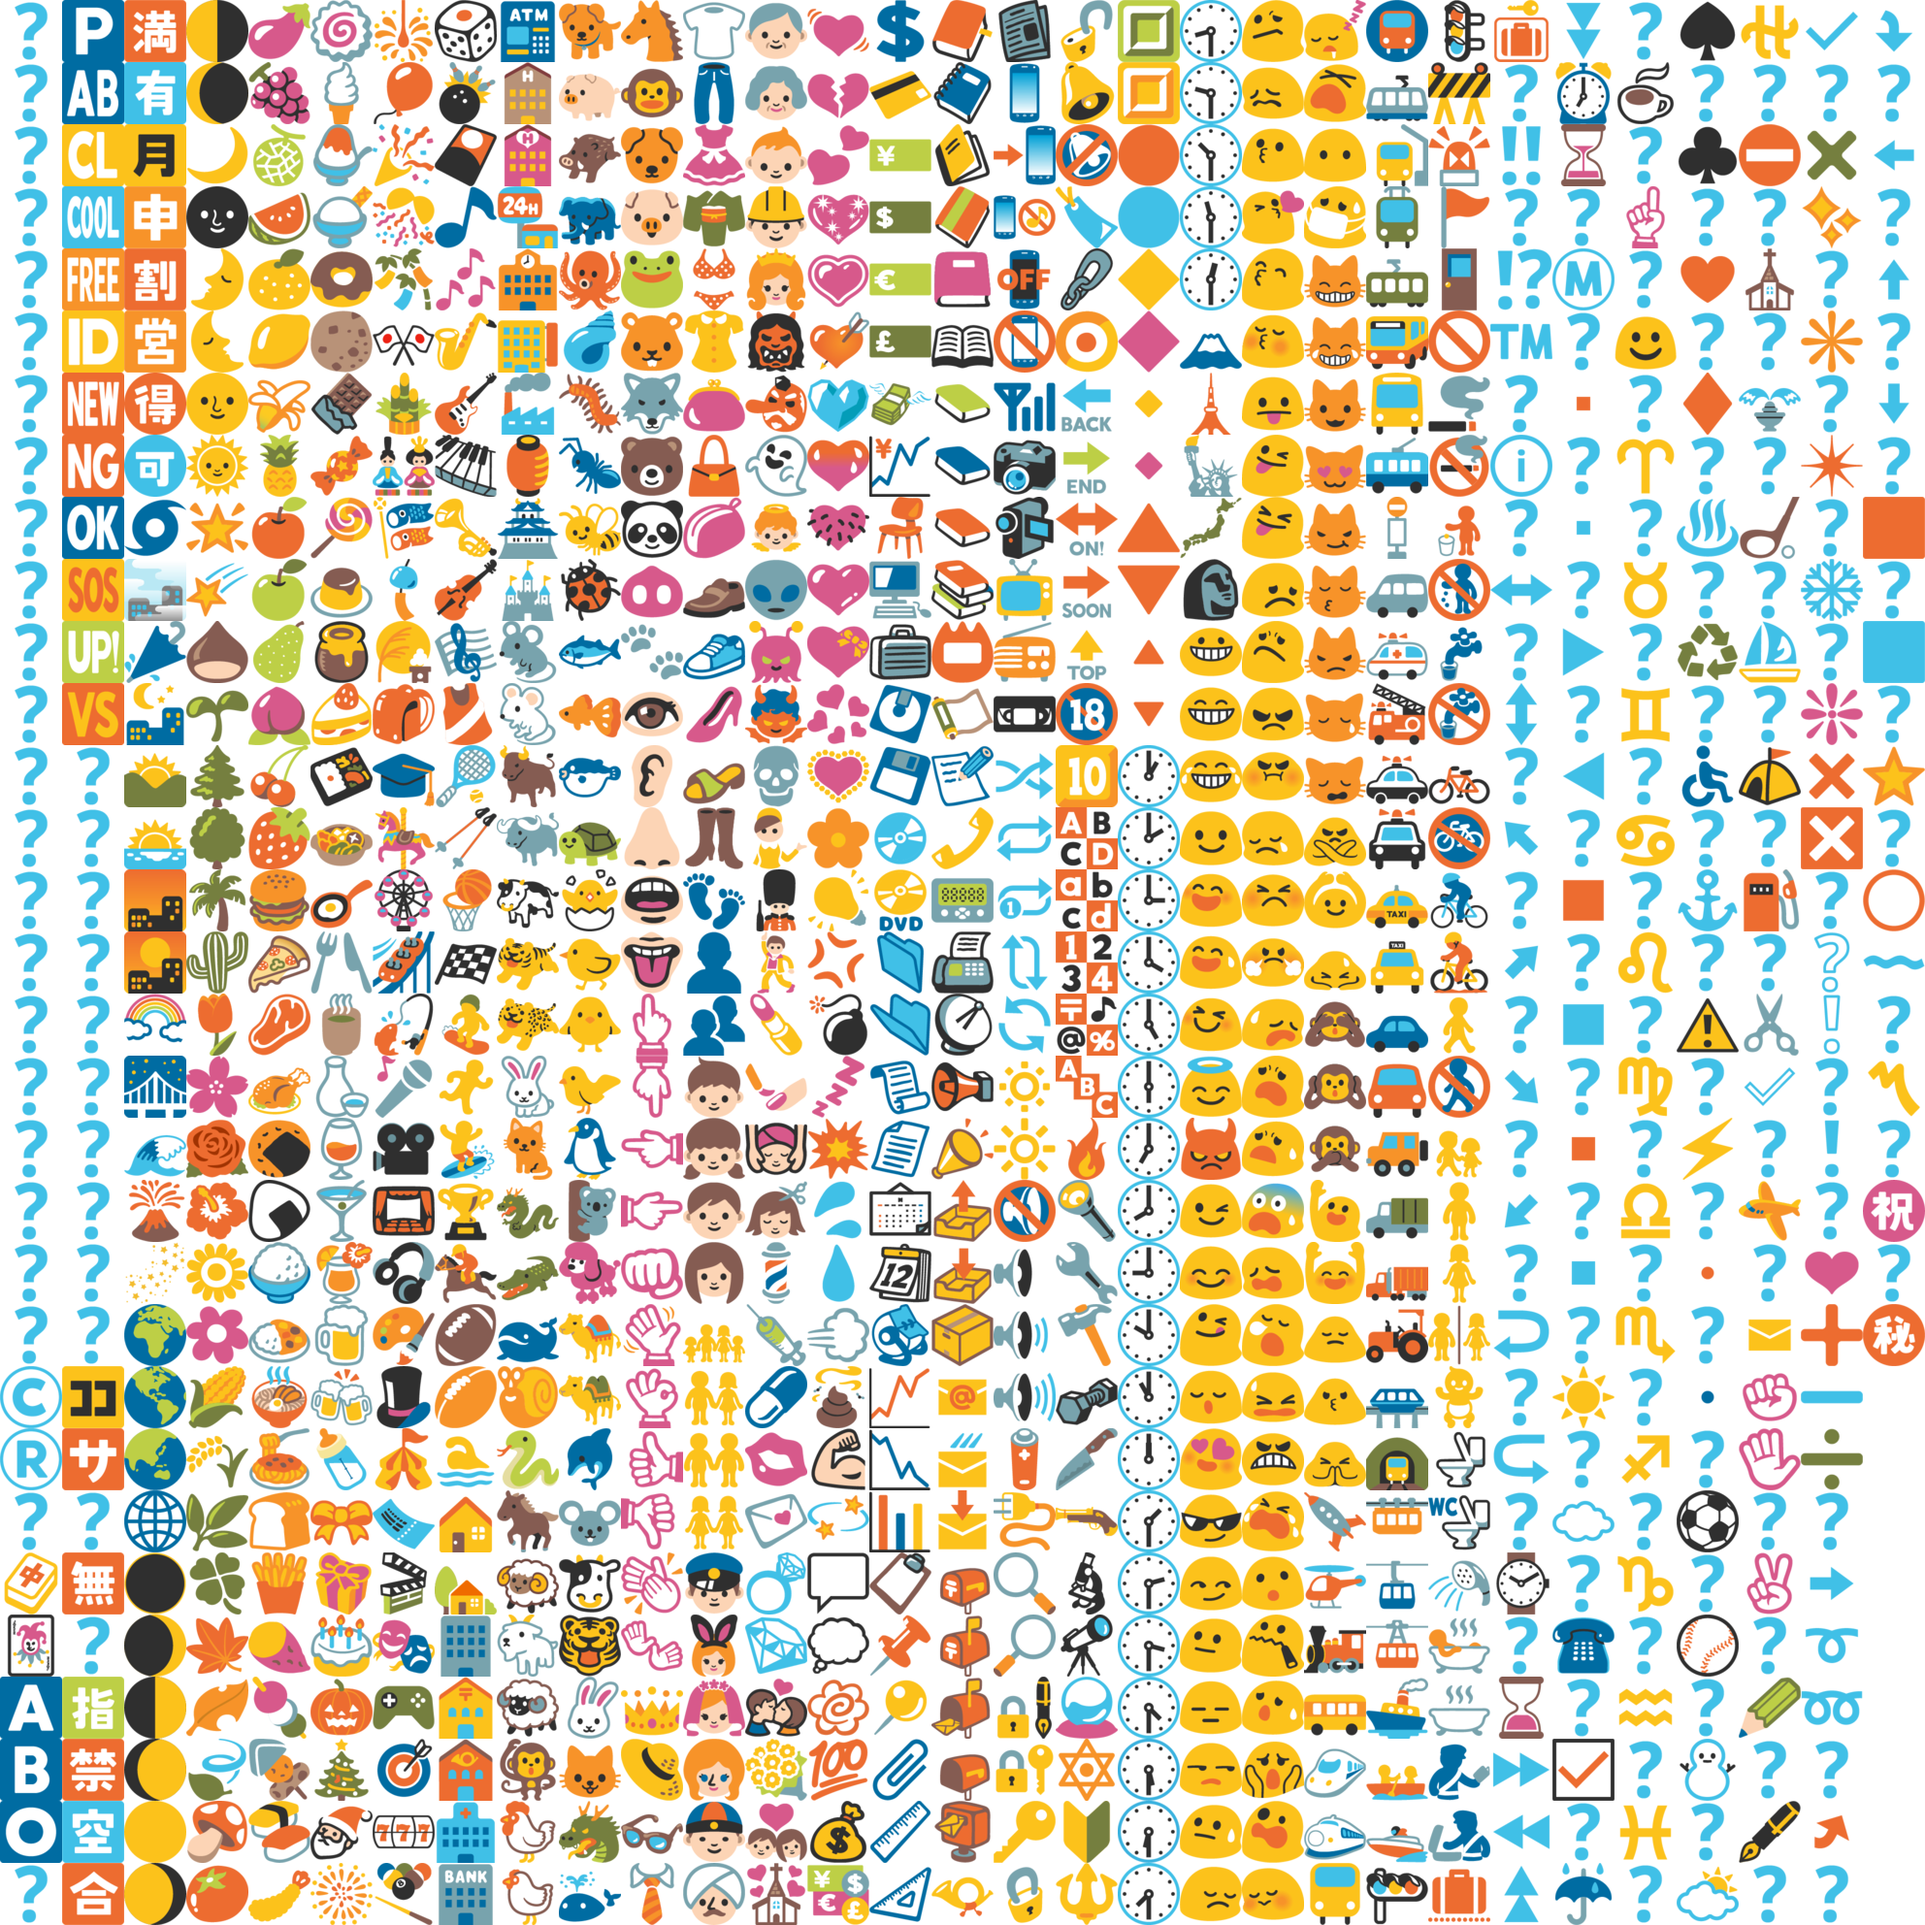
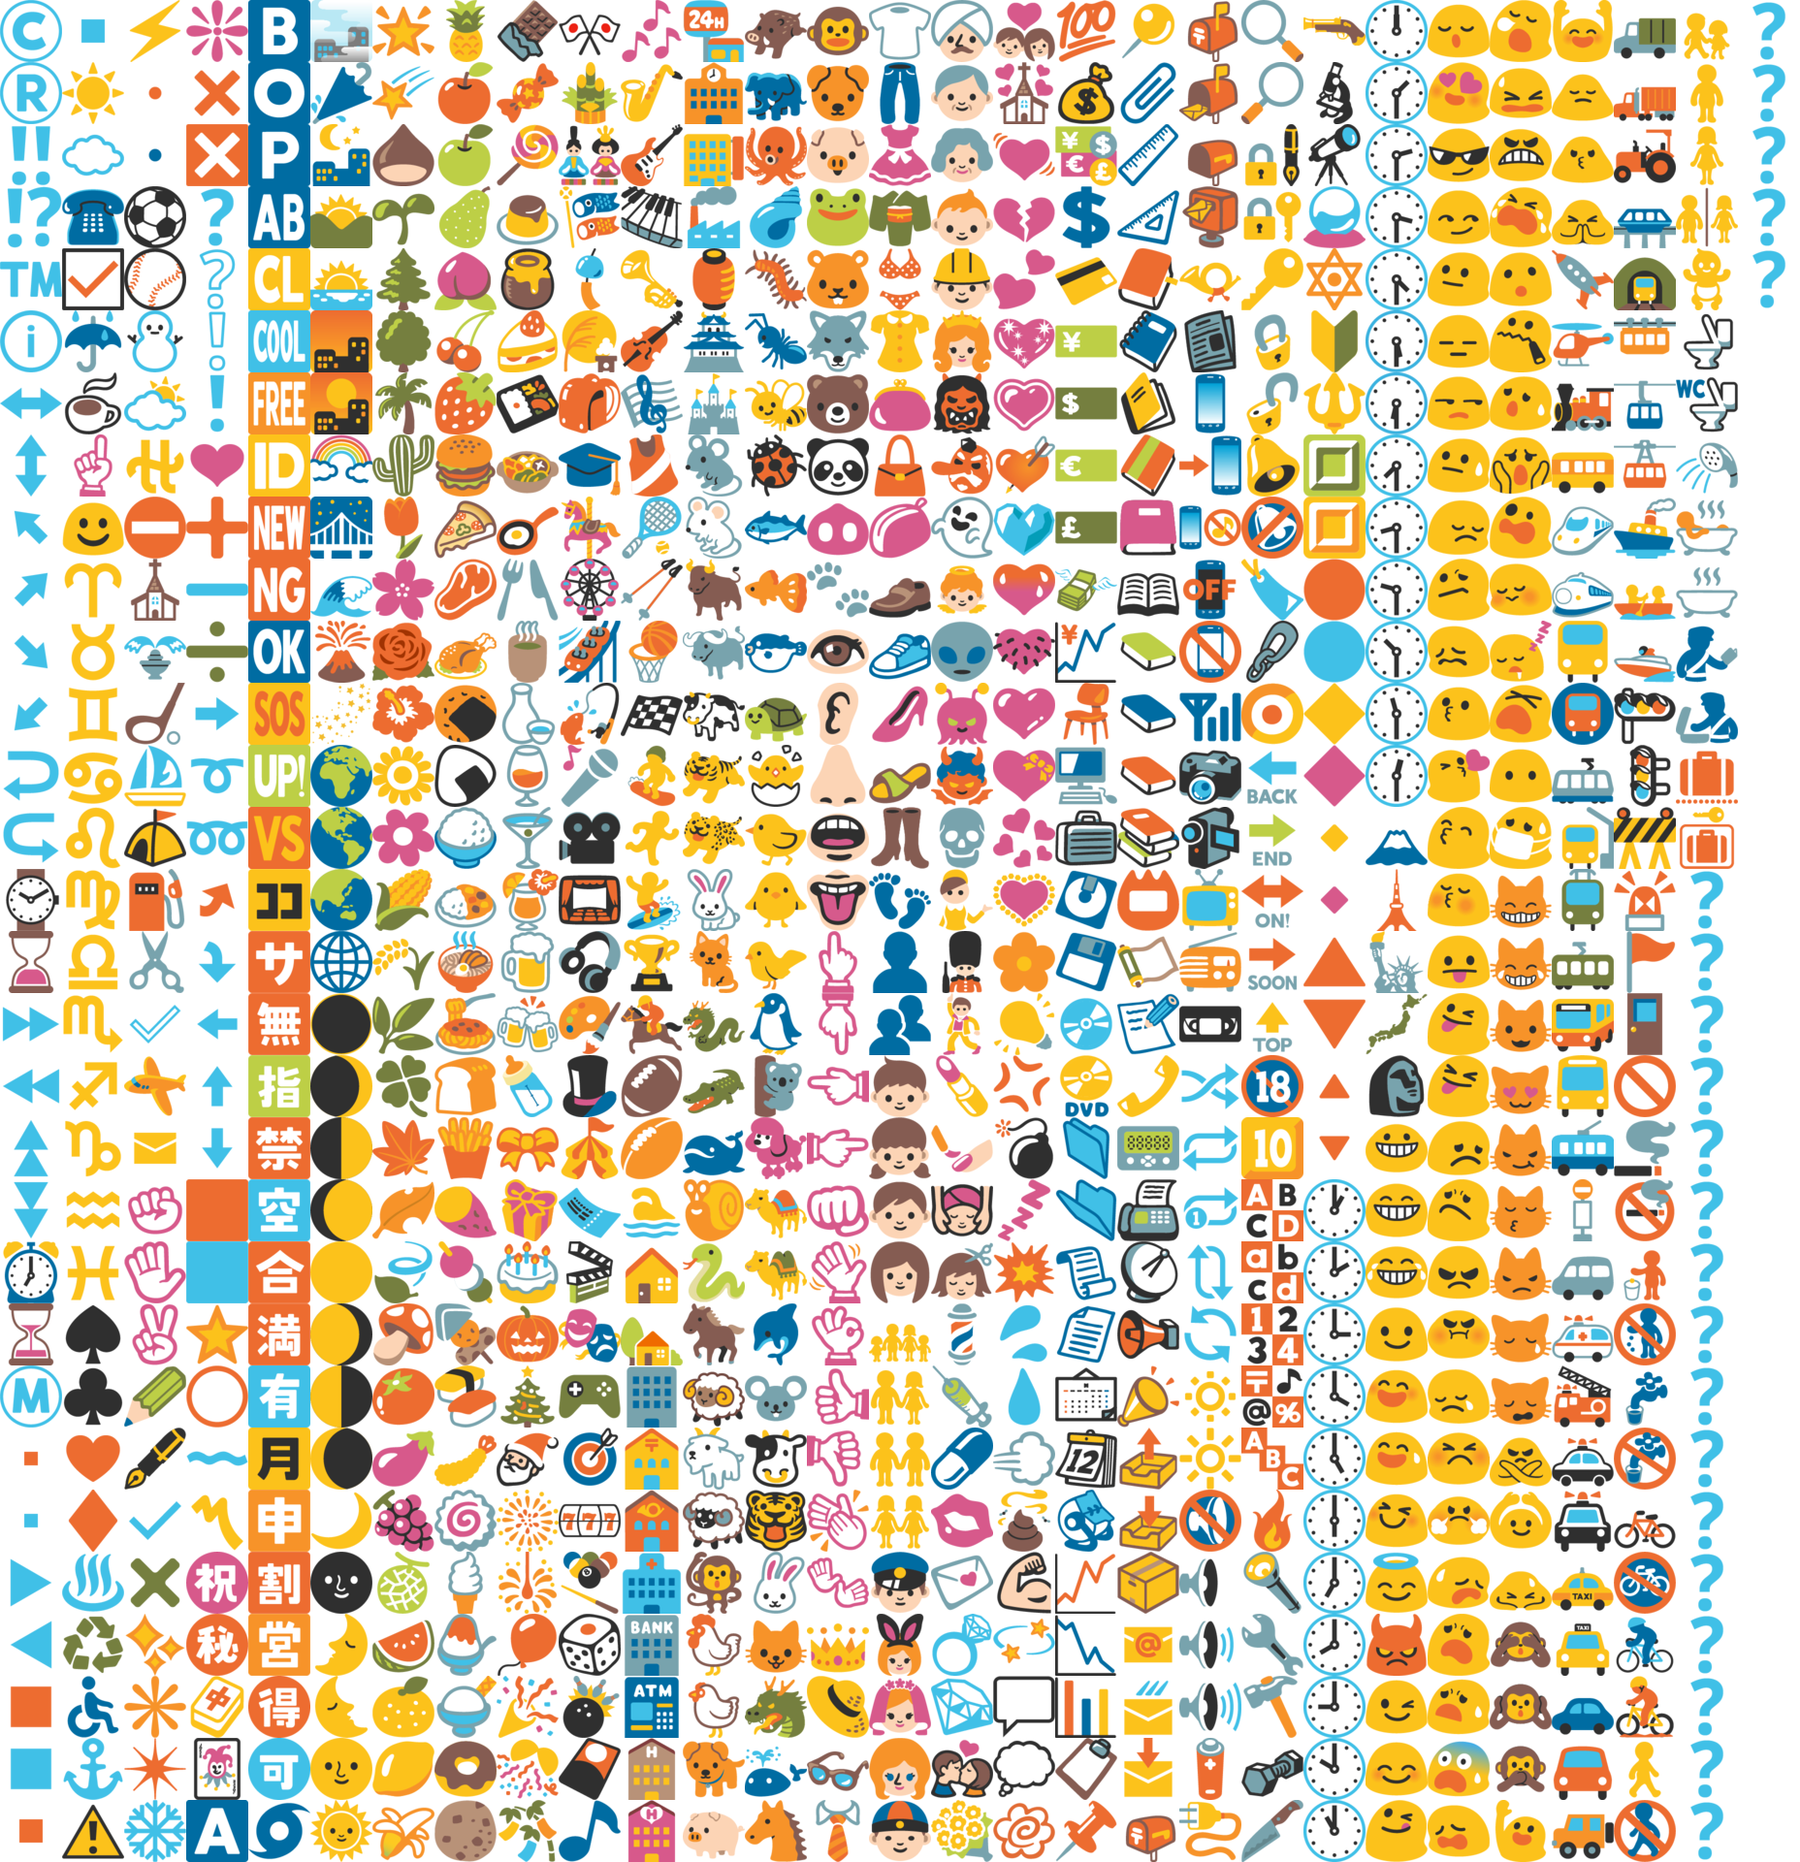
rebuilt all sheets

diff --git a/build/build_sheets.php b/build/build_sheets.php
@@ -1,14 +1,14 @@
 <?php
 	$dir = dirname(__FILE__).'/..';
 
-	#build_sheet(64, null, 32);
-	#build_sheet(64, null, 20);
-	#build_sheet(64, null, 16);
+	build_sheet(64, null, 32);
+	build_sheet(64, null, 20);
+	build_sheet(64, null, 16);
 
-	#build_sheet(72, 'twitter', 64);
-	#build_sheet(72, 'twitter', 32);
-	#build_sheet(72, 'twitter', 20);
-	#build_sheet(72, 'twitter', 16);
+	build_sheet(72, 'twitter', 64);
+	build_sheet(72, 'twitter', 32);
+	build_sheet(72, 'twitter', 20);
+	build_sheet(72, 'twitter', 16);
 
 	build_sheet(64, 'hangouts', 32);
 	build_sheet(64, 'hangouts', 20);

diff --git a/build/build_alts.php b/build/build_alts.php
@@ -3,7 +3,7 @@
 	include('catalog_positions.php');
 
 
-	#create_alt_sheet(72, 'twitter');
+	create_alt_sheet(72, 'twitter');
 	create_alt_sheet(64, 'hangouts');
 
 
